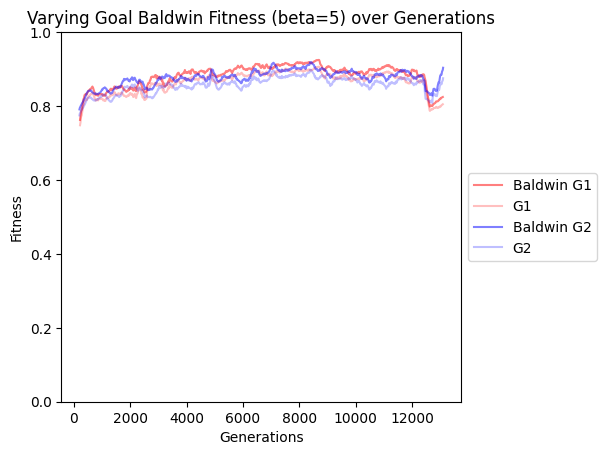
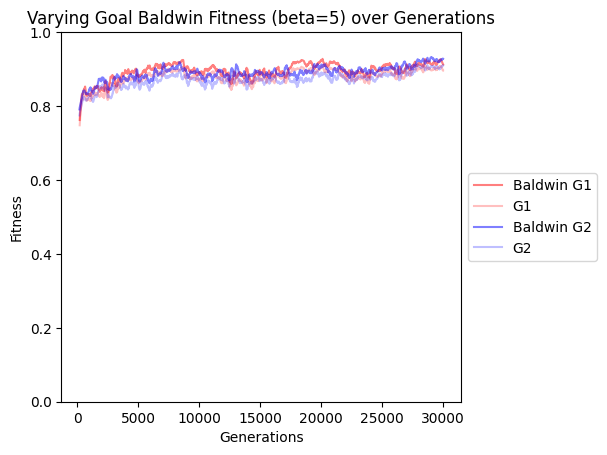
replotted to 30 generations

Changed region(s): [[0.1186, 0.1231, 0.7414, 0.2769], [0.1779, 0.8923, 0.771, 0.9538], [0.1186, 0.8923, 0.1483, 0.9231]]

diff --git a/plotter.py b/plotter.py
@@ -143,8 +143,8 @@ def drawaverage():
     # plt.savefig(f"aws/plots/baldwin_fvg_{i}.png", bbox_inches="tight")
     # plt.clf()  # Clear the current figure after saving the plot
 
-drawall()
-# drawaverage()
+# drawall()
+drawaverage()
 
 # UNCOMMENT THIS TO HAVE A PLOT FOR ALL RUNS
-# plt.savefig("aws/plots/baldwin_{BETA}_fvg.png", bbox_inches="tight")
+plt.savefig(f"aws/plots/baldwin_{BETA}_fvg.png", bbox_inches="tight")
